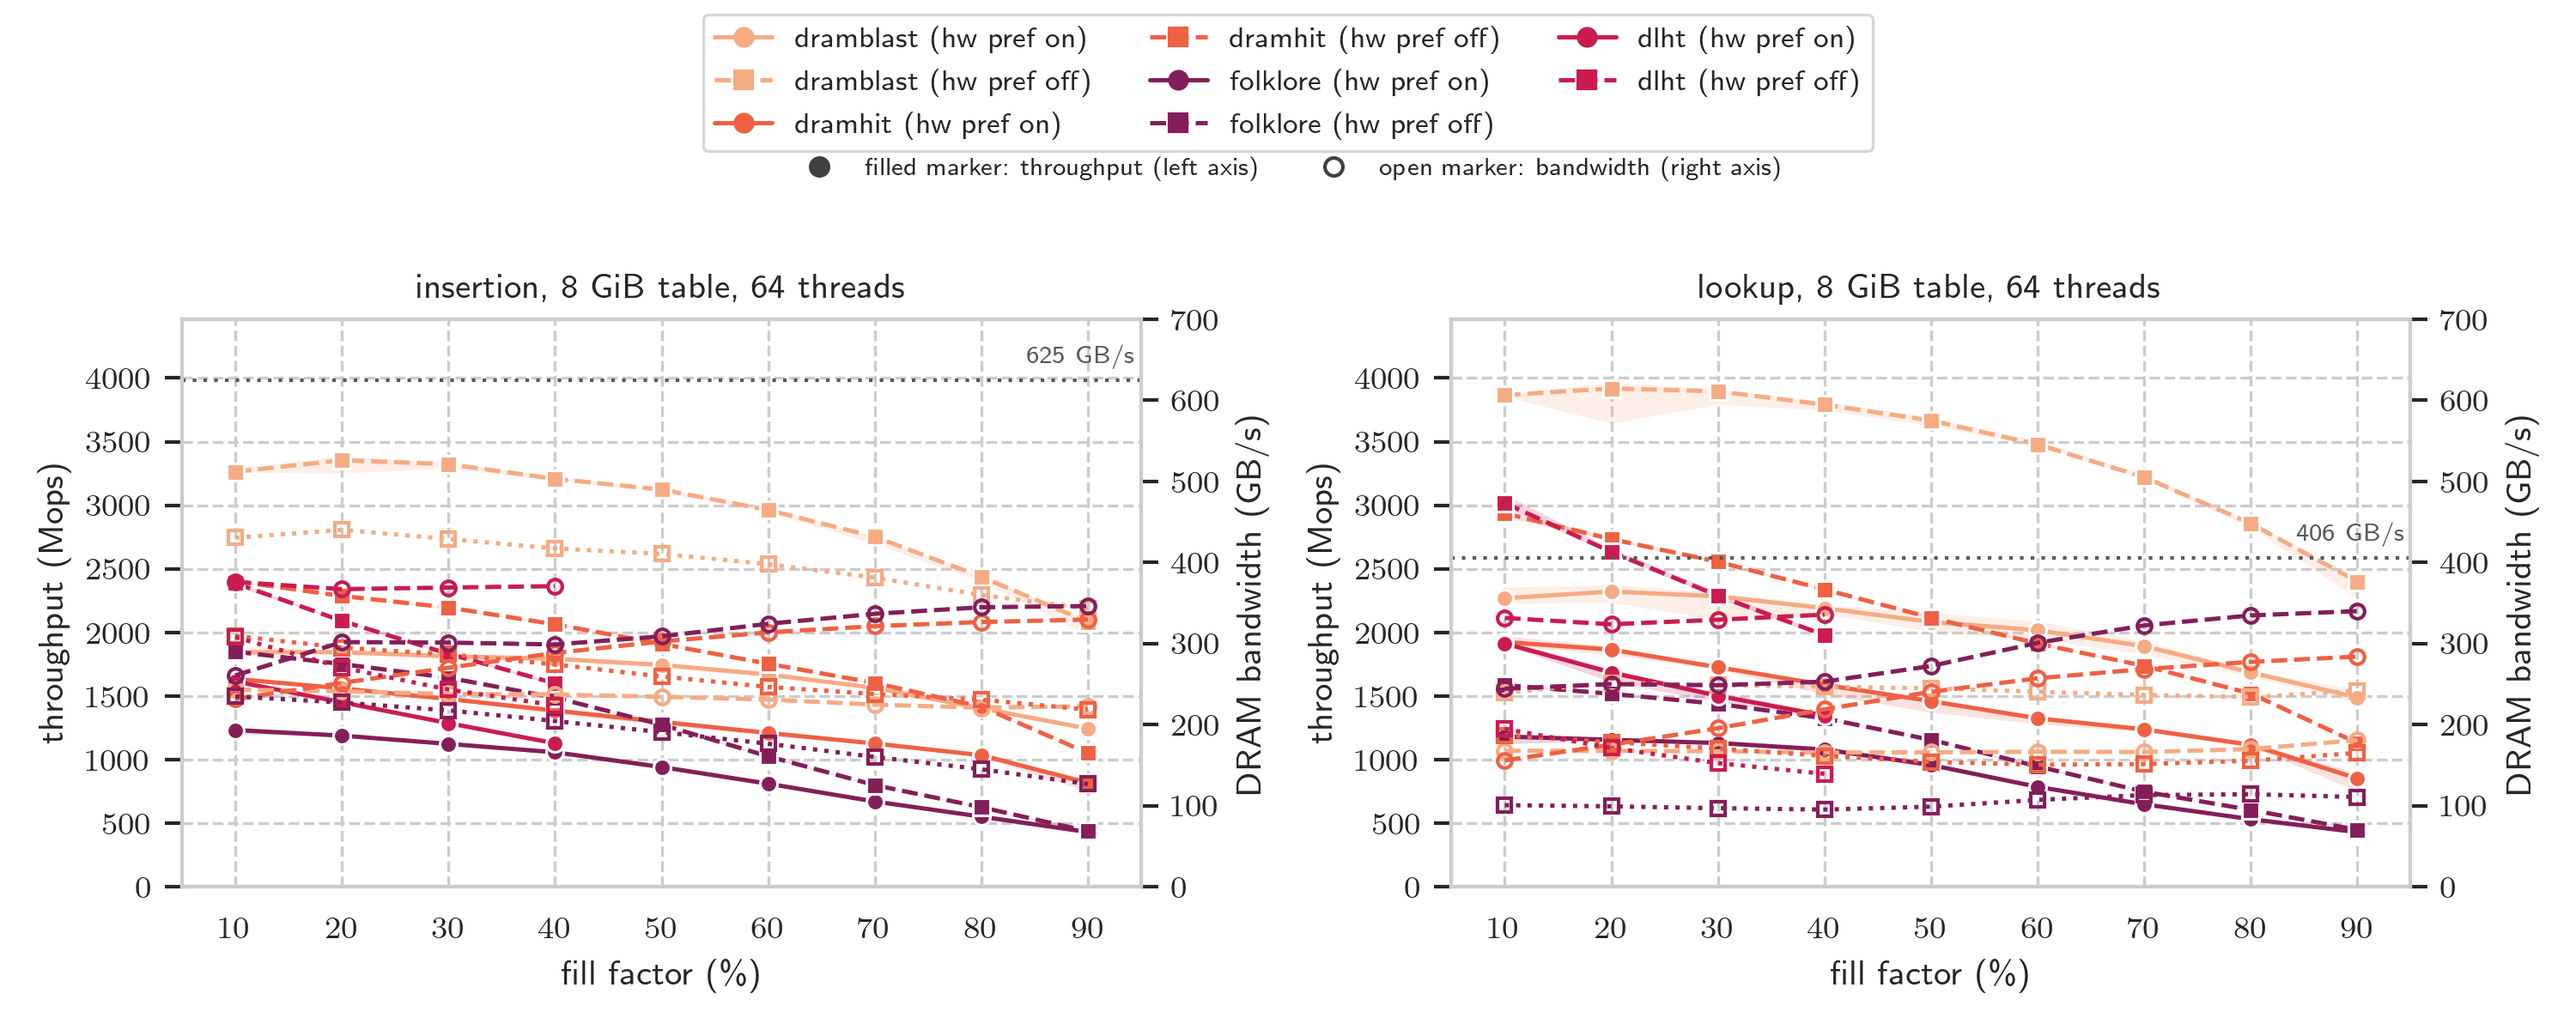
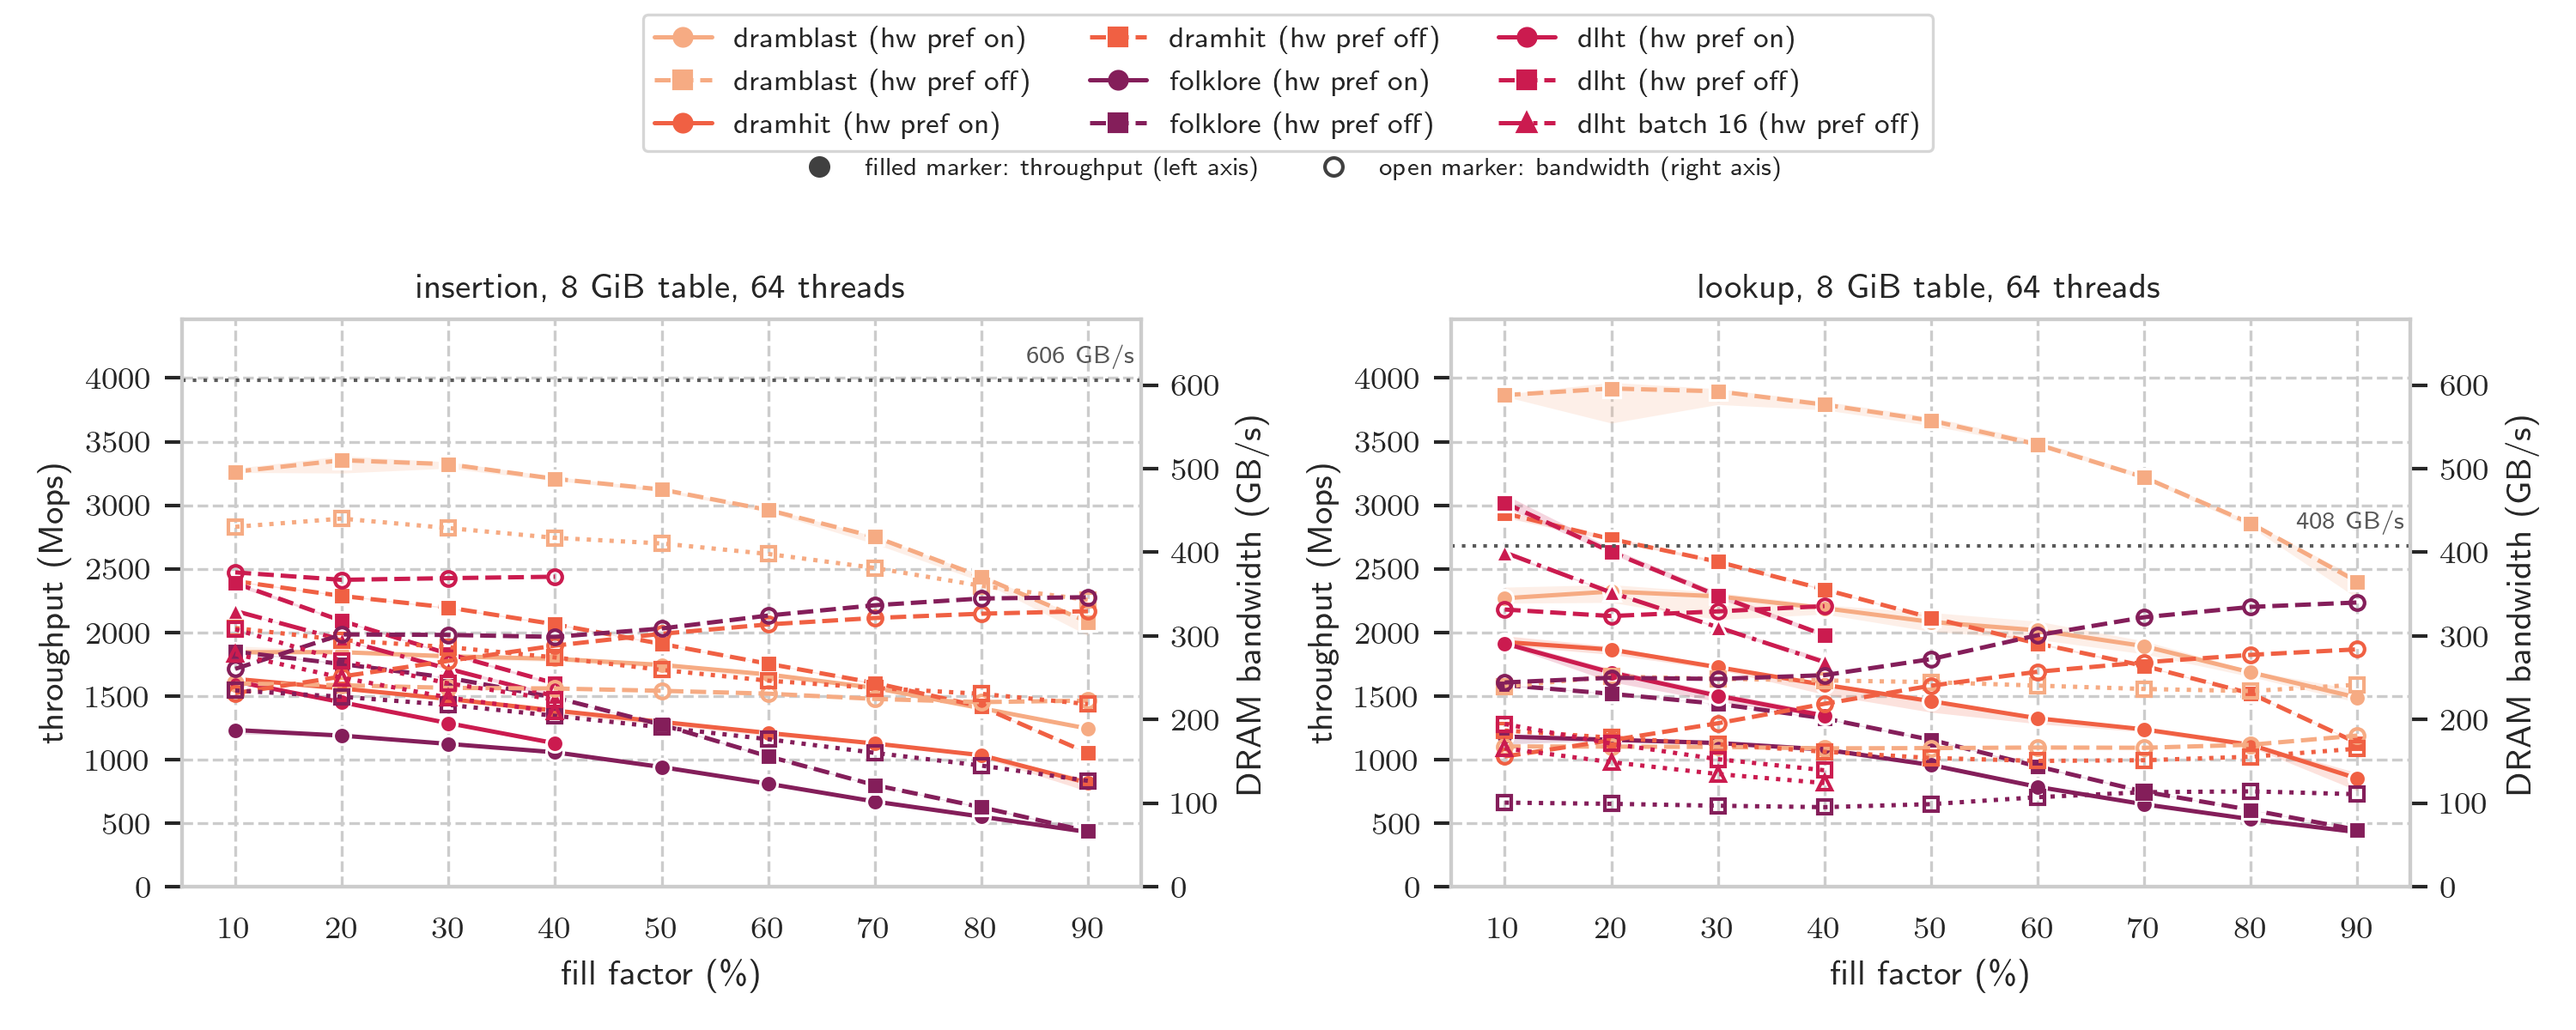
a

diff --git a/scripts/eurosys_2026/macro_uniform/collect_data_intel_hbm.py b/scripts/eurosys_2026/macro_uniform/collect_data_intel_hbm.py
@@ -171,6 +171,14 @@ for _name, _cfg in _BASE_TABLES.items():
 
 PLOT_ORDER = [f"{n}_hwpf_{s}" for n in _BASE_TABLES for s in ("on", "off")]
 
+# dlht is the only table swept at batch 32 above; this is it at the batch the
+# other three use, so the batch length can be ruled in or out as the reason it
+# differs from them. Prefetcher off only, the state every table prefers here.
+TABLES["dlht_b16_hwpf_off"] = dict(
+    _BASE_TABLES["dlht"], batch_len=16, prefetcher="off",
+    display="dlht batch 16 (hw pref off)")
+PLOT_ORDER.append("dlht_b16_hwpf_off")
+
 SKIPPED = {
     "growt": "excluded by request, as in collect_data_intel.py",
 }

diff --git a/scripts/eurosys_2026/paper_style.py b/scripts/eurosys_2026/paper_style.py
@@ -91,6 +91,12 @@ for _base in PALETTE_ORDER:
     DISPLAY_NAMES[f"{_base}_hwpf_on"] = f"{DISPLAY_NAMES.get(_base, _base)} (hw pref on)"
     DISPLAY_NAMES[f"{_base}_hwpf_off"] = f"{DISPLAY_NAMES.get(_base, _base)} (hw pref off)"
 
+# dlht at batch 16 instead of its usual 32, prefetcher off (the HBM uniform
+# collection). Same table, so same colour; dash-dot + triangle set it apart
+# from the batch-32 dlht_hwpf_off it is compared against.
+VARIANT_STYLE["dlht_b16_hwpf_off"] = {"base": "dlht", "linestyle": "-.", "marker": "^"}
+DISPLAY_NAMES["dlht_b16_hwpf_off"] = "dlht batch 16 (hw pref off)"
+
 TUPLE_BYTES = 16
 
 
